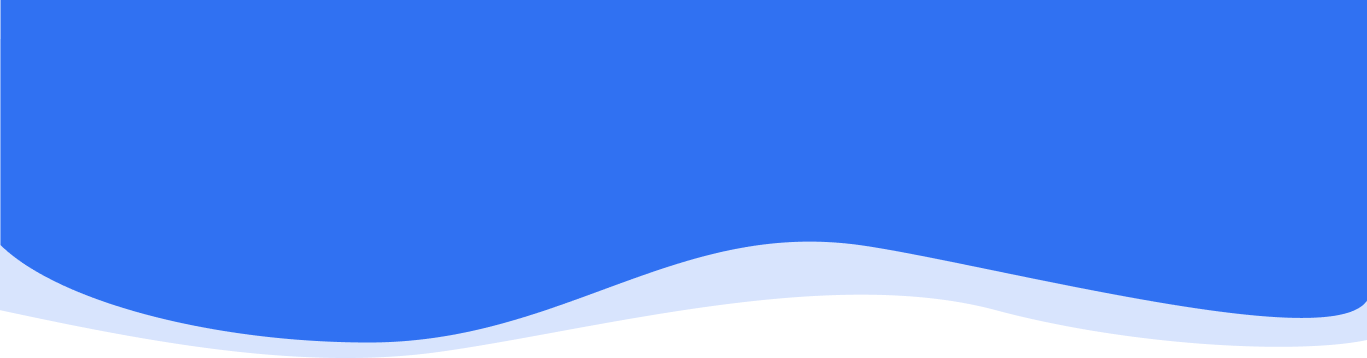
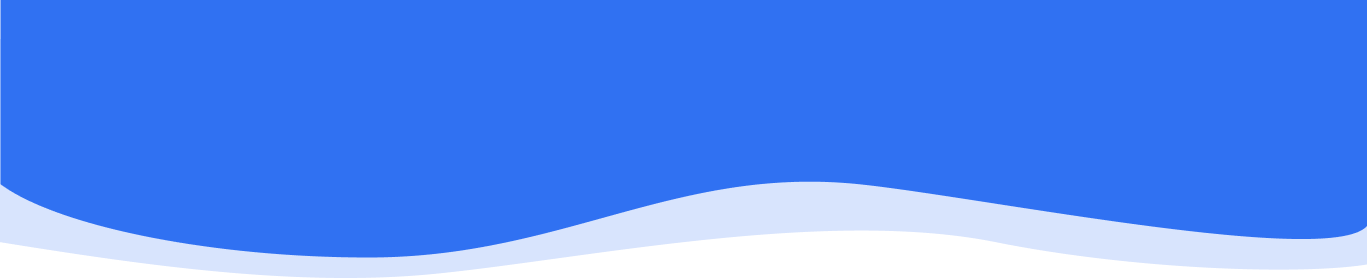
Home Screen design finish

diff --git a/frontend/src/screens/home/Home.jsx b/frontend/src/screens/home/Home.jsx
@@ -1,10 +1,38 @@
 import React from 'react';
 import Header from "./header/Header";
+import pc from '../../assets/pc_inicio.png'
+import adversos from '../../assets/eve_adversos.png'
+import inventario from '../../assets/inventario.png'
+import transfusion from '../../assets/res_transfusiones.png'
+import Footer from "../general/footer/Footer";
 
 const Home = () => {
     return (
         <div className="home-screen">
             <Header/>
+            <div className="contenido">
+                <div className="fila-inicio">
+                    <img className="img-pc" src={pc} alt=""/>
+                    <div className="columna-texto">
+                        <div className="info">
+                            <h2 className="blockchain">Blockchain</h2>
+                            <p className="txt-blockchain">Cuida toda tu información desde un mismo lugar y evita que sea
+                                modificada en el tiempo gracias las herramientas innovadoras tecnológicas
+                                disponibles</p>
+                            <button className="btn-header btn">Accede</button>
+                        </div>
+                    </div>
+                </div>
+                <div className="grilla-beneficios">
+                    <h4 className="titulos">Resultados<br/>Transfusiones</h4>
+                    <h4 className="titulos">Manejo<br/>Inventario</h4>
+                    <h4 className="titulos">Eventos<br/>Adversos</h4>
+                    <img src={transfusion} alt="Resultados Transfusiones"/>
+                    <img src={inventario} alt="Manejo Inventario"/>
+                    <img src={adversos} alt="Eventos Adversos"/>
+                </div>
+            </div>
+            <Footer/>
         </div>
     );
 }

diff --git a/frontend/src/screens/home/home.scss b/frontend/src/screens/home/home.scss
@@ -3,4 +3,64 @@
   flex-direction: column;
 
   @import "header/header";
+
+  .contenido {
+    display: flex;
+    flex-direction: column;
+    align-items: center;
+    margin-bottom: 2em;
+
+    .fila-inicio {
+      display: flex;
+      justify-content: space-between;
+      width: 80%;
+
+      .img-pc {
+      }
+
+      .columna-texto {
+        display: flex;
+        flex-direction: column;
+        align-items: center;
+
+        .info {
+          margin: 2em 1em 2em 3em;
+          padding: 1em;
+          text-align: center;
+
+          .blockchain {
+            color: $azul-oscuro;
+            font-weight: 600;
+            font-size: 2em;
+          }
+
+          .txt-blockchain {
+            font-family: 'Open Sans';
+            font-size: 1.5em;
+          }
+
+          .btn {
+            margin-top: 0.5em;
+            font-size: 1em;
+            padding: 0.5em 3em;
+            @include border-radius(1.5em)
+          }
+        }
+      }
+    }
+    .grilla-beneficios {
+      margin-top: 1em;
+      display: grid;
+      grid-template-columns: repeat(3, 1fr);
+      grid-column-gap: 2em;
+
+      .titulos {
+        color: $azul-oscuro;
+        font-size: 1.7em;
+        font-weight: 600;
+        text-align: center;
+        margin-bottom: 0.5em;
+      }
+    }
+  }
 }

diff --git a/frontend/src/screens/home/header/header.scss b/frontend/src/screens/home/header/header.scss
@@ -1,14 +1,44 @@
 .header-home {
   display: flex;
   flex-direction: column;
+  position: relative;
+
+  .ondas {
+    position: absolute;
+    z-index: -1;
+    width: 100%;
+  }
 
   .fila-logo {
     display: flex;
     justify-content: space-between;
     align-items: center;
+    margin: 1em 2em;
 
     .logo-eps {
       width: fit-content;
+      color: white;
+      font-size: 1.7em;
+      margin: 0.1em 0 0 0;
     }
+
+    .btn-ingresar {
+      font-size: 1em;
+    }
+  }
+
+  .titulo-inicio {
+    color: white;
+    align-self: center;
+    font-weight: 600;
+    font-size: 2.5em;
+    margin: 0 0 0.3em 0;
+  }
+
+  .img-bloques {
+    margin-top: 2em;
+    width: 80%;
+    align-self: center;
+    padding-bottom: 3em;
   }
 }

diff --git a/frontend/src/screens/home/header/Header.jsx b/frontend/src/screens/home/header/Header.jsx
@@ -1,12 +1,17 @@
 import React from 'react';
+import bloques from '../../../assets/bloques_inicio.png'
+import ondas from '../../../assets/onda_header.png'
 
 function Header(props) {
     return (
         <div className="header-home">
+            <img className="ondas" src={ondas} alt="Ondas"/>
             <div className="fila-logo">
                 <h3 className="logo-eps"><span className="bold">EPS</span> Sanitas</h3>
                 <button className="btn-header btn-ingresar">Ingresar</button>
             </div>
+            <h1 className={"titulo-inicio"}>Blood Block</h1>
+            <img className="img-bloques" src={bloques} alt="Bloques"/>
         </div>
     );
 }

diff --git a/frontend/src/screens/general/footer/Footer.jsx b/frontend/src/screens/general/footer/Footer.jsx
@@ -1,0 +1,16 @@
+import React from 'react';
+import onda from '../../../assets/onda_footer.png'
+
+const Footer = () => {
+    return (
+        <div className="footer">
+            <img className="onda" src={onda} alt="Onda Footer"/>
+            <div className="autores">
+            <p className="autor">Juan Sebastián Millán Lejarde</p>
+            <p className="autor">Carlos Mario Sarmiento</p>
+            </div>
+        </div>
+    );
+}
+
+export default Footer;

diff --git a/frontend/src/screens/general/footer/footer.scss b/frontend/src/screens/general/footer/footer.scss
@@ -1,0 +1,27 @@
+.footer {
+  margin: 0;
+  padding: 0;
+  position: relative;
+  display: flex;
+  flex-direction: column;
+  justify-content: flex-end;
+
+  .onda {
+    position: absolute;
+    width: 100%;
+    z-index: -1;
+  }
+
+  .autores {
+    display: flex;
+    flex-direction: column;
+    padding: 5em 2em 1em;
+
+    .autor {
+      color: white;
+      font-size: 1.2em;
+      font-weight: 500;
+      margin: 0.2em 0;
+    }
+  }
+}

diff --git a/frontend/src/screens/general/base.scss b/frontend/src/screens/general/base.scss
@@ -5,6 +5,7 @@
 
 body {
   background-color: $color-fondo;
+  margin: 0;
 }
 
 .loading-dialog {

diff --git a/frontend/src/screens/general/main.sass b/frontend/src/screens/general/main.sass
@@ -3,3 +3,4 @@
 @import styles/fonts
 @import base
 @import ../home/home
+@import footer/footer
